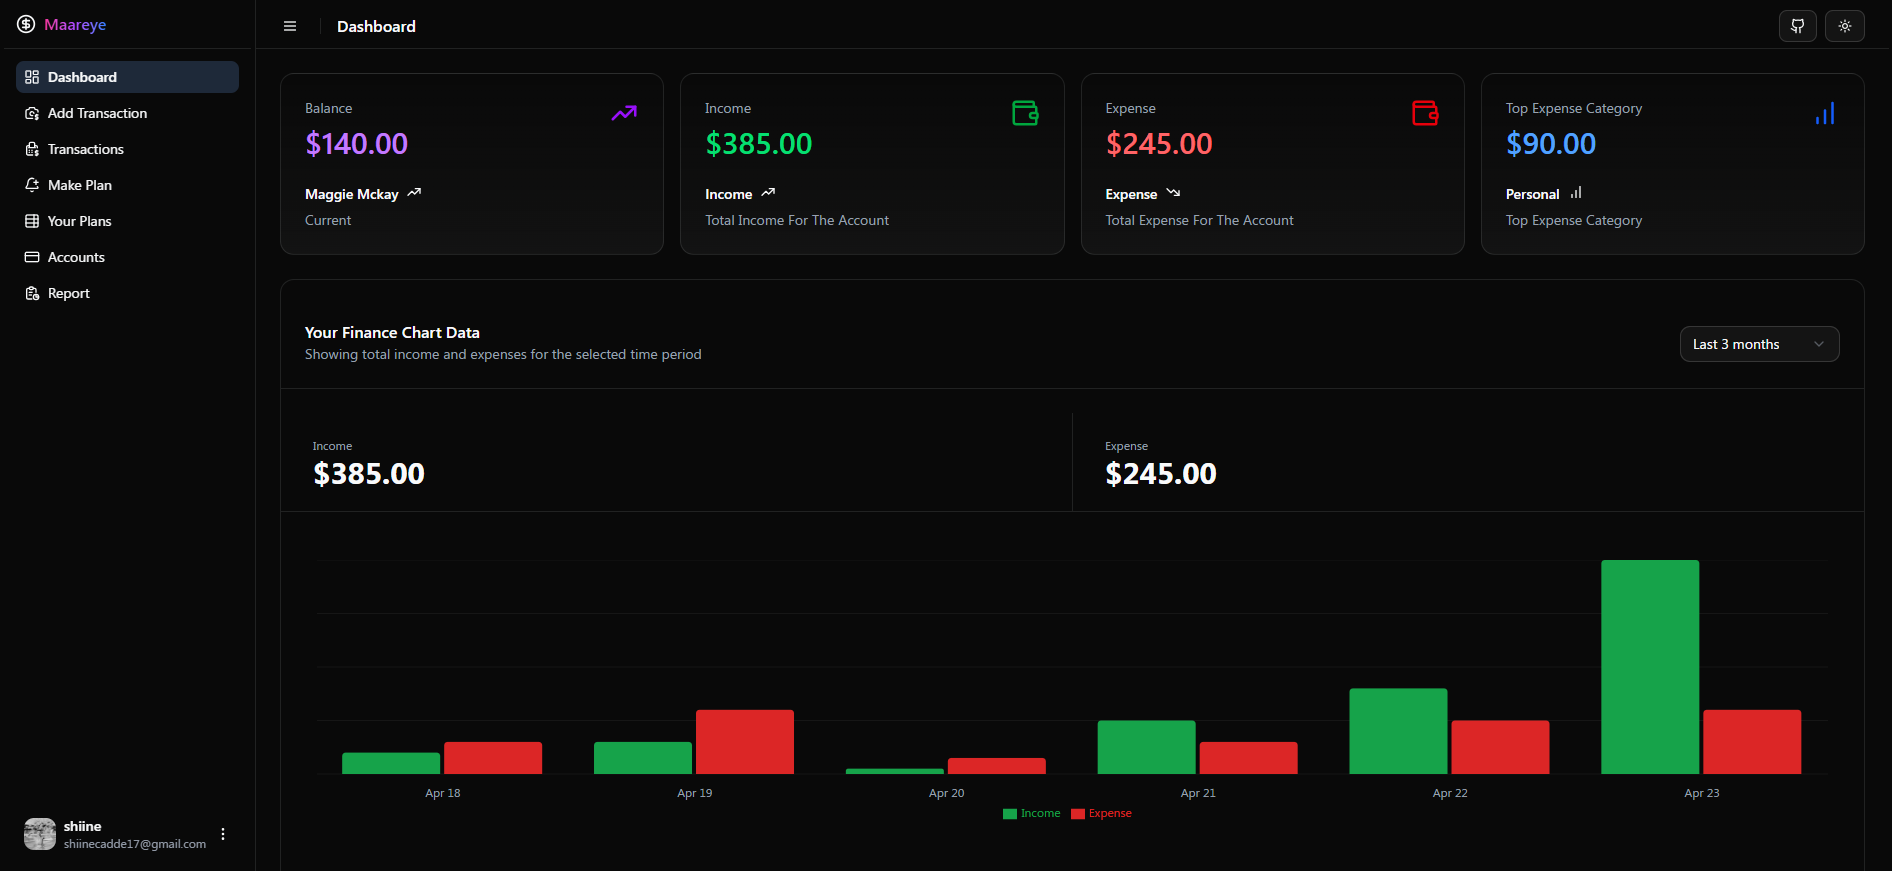
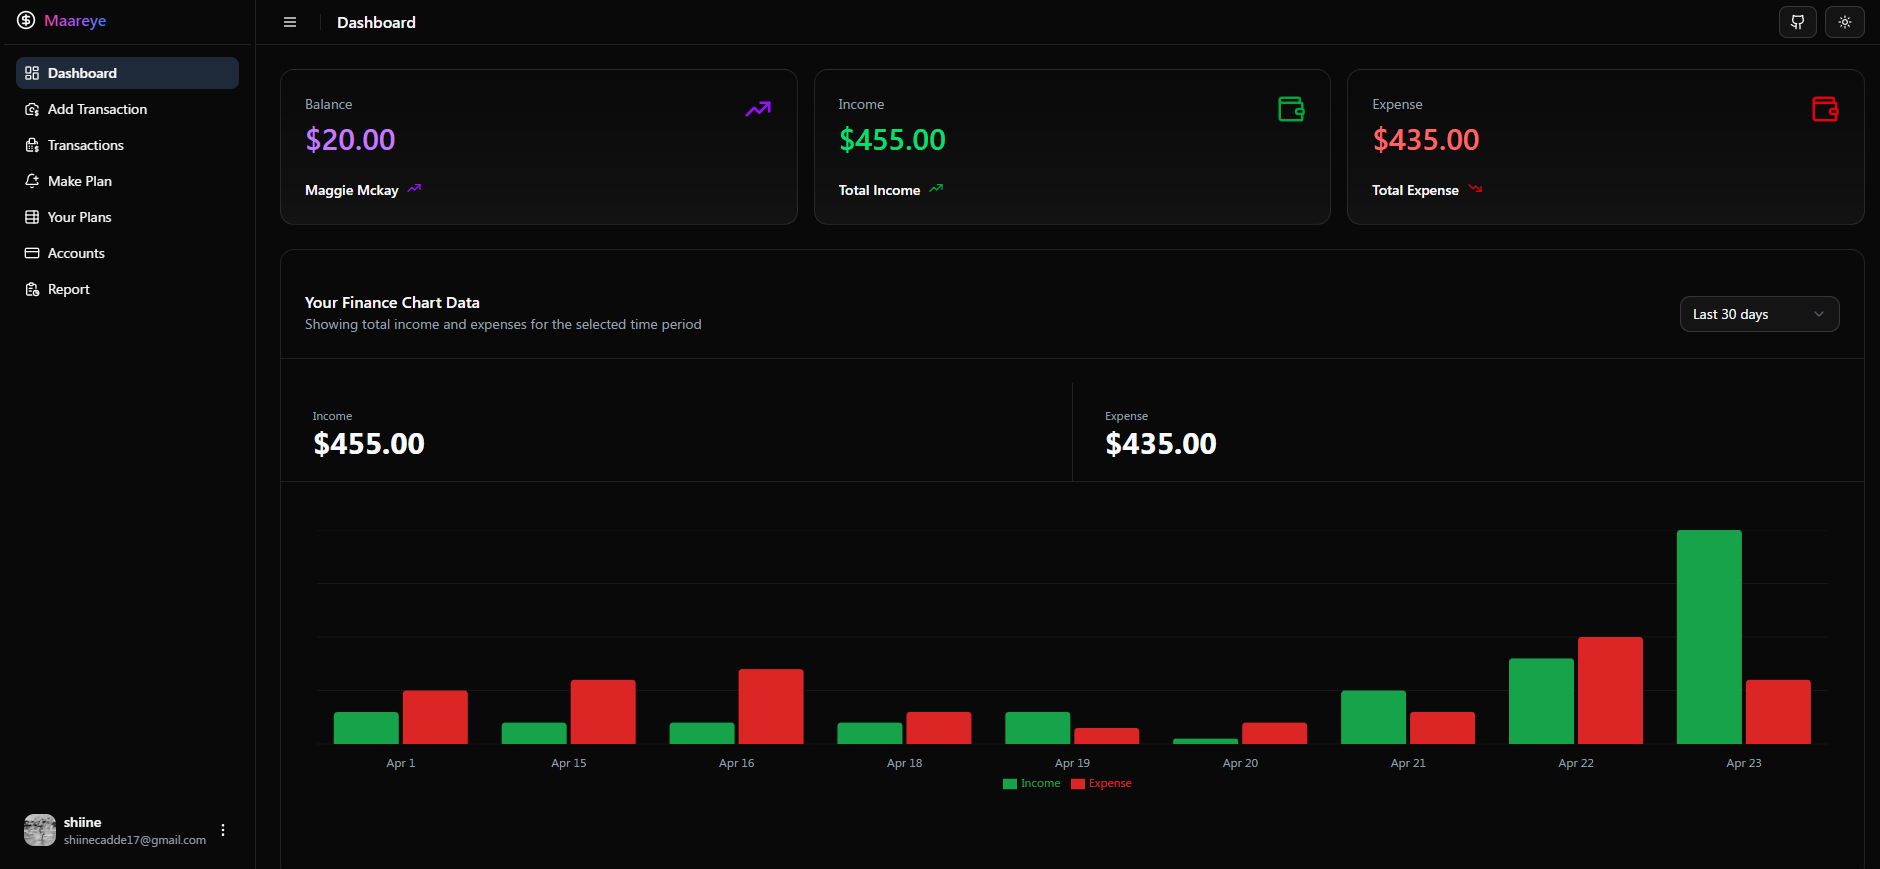
♻ refactor(overview): improve structure and performance of overview section

diff --git a/src/components/ui/section-cards.jsx b/src/components/ui/section-cards.jsx
@@ -7,53 +7,46 @@ import {
   CardHeader,
   CardTitle,
 } from "@/components/ui/card"
-import { BarChart, Wallet } from "lucide-react";
-import { generateReport } from "@/utils/transaction";
-import { useMemo } from "react";
+import { Wallet } from "lucide-react";
 
-export function SectionCards({defaultAccount, transactions}) {
+export function SectionCards({defaultAccount,totalIncome,totalExpense}) {
 
- 
 
-  const reportData = useMemo(() => {
-    if (!Array.isArray(transactions)) return null;
-    return  generateReport(transactions);
-  }, [transactions]);
-  
-
- // console.log(reportData);
+  const formatCurrency = (amount) => {
+    return new Intl.NumberFormat("en-US", {
+      style: "currency",
+      currency: "USD",
+    }).format(amount)
+  }
 
 
   return (
     <div
-      className="*:data-[slot=card]:from-primary/5 *:data-[slot=card]:to-card dark:*:data-[slot=card]:bg-card grid grid-cols-1 gap-4 px-4 *:data-[slot=card]:bg-gradient-to-t *:data-[slot=card]:shadow-xs lg:px-6 @xl/main:grid-cols-2 @5xl/main:grid-cols-4">
+      className="*:data-[slot=card]:from-primary/5 *:data-[slot=card]:to-card dark:*:data-[slot=card]:bg-card grid grid-cols-1 gap-4 px-4 *:data-[slot=card]:bg-gradient-to-t *:data-[slot=card]:shadow-xs lg:px-6 @xl/main:grid-cols-3 ">
        <Card className="@container/card">
         <CardHeader>
           <CardDescription>Balance</CardDescription>
           <CardTitle className="text-purple-400 text-2xl font-semibold tabular-num @[250px]/card:text-3xl">
-           ${defaultAccount?.balance.toLocaleString("en-Us",
-            { minimumFractionDigits:2,},{ maximumFractionDigits:2,})}
+           {formatCurrency(defaultAccount?.balance)}
           </CardTitle>
           <CardAction>
             <div variant="outline" className={"text-purple-600"}>
-              <IconTrendingUp size={30} />
-              
+              <IconTrendingUp size={30}  />
             </div>
           </CardAction>
         </CardHeader>
         <CardFooter className="flex-col items-start gap-1.5 text-sm">
           <div className="line-clamp-1 flex gap-2 font-medium capitalize">
-             { defaultAccount ? defaultAccount?.name : "No Account"}<IconTrendingUp className="size-4" />
+             { defaultAccount ? defaultAccount?.name : "No Account"}
+             <IconTrendingUp className="size-4 text-purple-600"  />
           </div>
-          <div className="text-muted-foreground capitalize">{defaultAccount ? defaultAccount?.type : "no account"}</div>
         </CardFooter>
       </Card>
       <Card className="@container/card">
         <CardHeader>
           <CardDescription>Income</CardDescription>
           <CardTitle className="text-green-400 text-2xl font-semibold tabular-nums @[250px]/card:text-3xl">
-           ${reportData?.income?.toLocaleString("en-Us",
-            { minimumFractionDigits:2,},{ maximumFractionDigits:2,})}
+           {formatCurrency(totalIncome)}
           </CardTitle>
           <CardAction>
             <div variant="outline" className={"text-green-600"}>
@@ -63,10 +56,7 @@ export function SectionCards({defaultAccount, transactions}) {
         </CardHeader>
         <CardFooter className="flex-col items-start gap-1.5 text-sm">
           <div className="line-clamp-1 flex gap-2 font-medium">
-            Income <IconTrendingUp className="size-4" />
-          </div>
-          <div className="text-muted-foreground capitalize">
-            Total Income for The Account
+            Total Income <IconTrendingUp className="size-4 text-green-600" />
           </div>
         </CardFooter>
       </Card>
@@ -74,8 +64,7 @@ export function SectionCards({defaultAccount, transactions}) {
         <CardHeader>
           <CardDescription>Expense</CardDescription>
           <CardTitle className="text-red-400 text-2xl font-semibold tabular-nums @[250px]/card:text-3xl">
-            ${reportData?.expense?.toLocaleString("en-Us",
-            { minimumFractionDigits:2,},{ maximumFractionDigits:2,})}
+            {formatCurrency(totalExpense)}
           </CardTitle>
           <CardAction>
             <div variant="outline" className={"text-red-600"}>
@@ -85,33 +74,8 @@ export function SectionCards({defaultAccount, transactions}) {
         </CardHeader>
         <CardFooter className="flex-col items-start gap-1.5 text-sm">
           <div className="line-clamp-1 flex gap-2 font-medium">
-            Expense <IconTrendingDown className="size-4" />
+          Total Expense <IconTrendingDown className="size-4 text-red-600" />
           </div>
-          <div className="text-muted-foreground capitalize">
-           Total Expense for the Account
-          </div>
-        </CardFooter>
-      </Card>
-     
-      <Card className="@container/card">
-        <CardHeader>
-          <CardDescription>Top Expense Category</CardDescription>
-          <CardTitle className="text-blue-400 text-2xl font-semibold tabular-num @[250px]/card:text-3xl">
-            ${reportData?.topCategory?.amount.toLocaleString("en-Us",
-            { minimumFractionDigits:2,},{ maximumFractionDigits:2,}) || "0.00"}
-          </CardTitle>
-          <CardAction>
-            <div variant="outline" className={"text-blue-600"}>
-            <BarChart size={30} />
-             
-            </div>
-          </CardAction>
-        </CardHeader>
-        <CardFooter className="flex-col items-start gap-1.5 text-sm">
-          <div className="line-clamp-1 flex gap-2 font-medium capitalize">
-            {reportData?.topCategory?.category || "No Expense" } <BarChart className="size-4" />
-          </div>
-          <div className="text-muted-foreground capitalize">Top Expense Category </div>
         </CardFooter>
       </Card>
     </div>

diff --git a/src/pages/Dashboard/Overview.jsx b/src/pages/Dashboard/Overview.jsx
@@ -1,14 +1,18 @@
-import React from 'react'
+import * as React from "react"
 import { SectionCards } from '@/components/ui/section-cards'
 import { BarChar } from '@/components/ui/BarChart'
 import { useAuth } from '@/context/AuthContext'
 import { useFetch } from '@/hooks/useFetch'
 import { getDefaultAccountByUserId } from '@/utils/account'
-import { getTransactionsForAccount } from '@/utils/transaction'
+import { getSummaryData, getTransactionsForAccount } from '@/utils/transaction'
 import { Spinner } from '@/components/ui/spinner'
 import RecentTransactions from './RecentTransactions'
 const Overview = () => {
-
+  const [chartData, setChartData ]= React.useState([]);
+  const [chartLoading, setChartLoading] =React.useState(true);
+  const [chartError, setChartError] = React.useState(null);
+  const [totalIncome, setTotalIncome] = React.useState(0);
+  const [totalExpense, setTotalExpense] = React.useState(0);
   const {user} = useAuth();
   const {
     data: defaultAccount,
@@ -26,16 +30,32 @@ const Overview = () => {
 
  // console.log(accountTransactions)
 
- if (defaultAccountError || transactionError) {
-  return (
-        <div className="flex items-center justify-center h-screen gap-3">
-          <div className="loader text-2xl text-red-500 ">
-            Error fetching data pleas try again
-          </div>
-        </div>
-      );
- }
-  if (defaultAccountLoading || transactionLoading) {
+ React.useEffect(() => {
+   if (!Array.isArray(accountTransactions)) return;
+ 
+   const fetchChart = async () => {
+     try {
+       setChartLoading(true);
+       const {chartData:result,totalIncome,totalExpense} = await getSummaryData(accountTransactions);
+//console.log(totalIncome)
+       console.log(chartData)
+       setChartData(result);
+       setTotalIncome(totalIncome);
+       setTotalExpense(totalExpense);
+     } catch (err) {
+       console.error("Error generating chart:", err);
+       setChartError(err);
+     } finally {
+       setChartLoading(false);
+     }
+   };
+ 
+   fetchChart();
+ }, [accountTransactions]);
+
+
+
+  if (defaultAccountLoading || transactionLoading ) {
    return (
          <div className="flex items-center justify-center h-screen gap-3">
            <Spinner className="h-6 w-6 animate-spin- text-purple-500" />
@@ -46,14 +66,24 @@ const Overview = () => {
          </div>
        );
   }
+
+  if (defaultAccountError || transactionError ) {
+    return (
+          <div className="flex items-center justify-center h-screen gap-3">
+            <div className="loader text-2xl text-red-500 ">
+              Error fetching data pleas try again
+            </div>
+          </div>
+        );
+   }
   
   return (
      <div className="flex flex-1 flex-col">
           <div className="@container/main flex flex-1 flex-col gap-2">
             <div className="flex flex-col gap-4 py-4 md:gap-6 md:py-6">
-              <SectionCards  defaultAccount={defaultAccount} transactions={accountTransactions}/>
+              <SectionCards  defaultAccount={defaultAccount} totalIncome={totalIncome} totalExpense={totalExpense}/>
               <div className="px-4 lg:px-6">
-                <BarChar  transactions={accountTransactions} />
+                <BarChar  chartData={chartData} chartLoading={chartLoading} />
               </div>
               <div>
                 <RecentTransactions />

diff --git a/src/components/ui/BarChart.jsx b/src/components/ui/BarChart.jsx
@@ -1,4 +1,3 @@
-"use client"
 
 import * as React from "react"
 import { Bar, BarChart, CartesianGrid, Legend, XAxis } from "recharts"
@@ -16,8 +15,9 @@ import {
   ChartTooltipContent,
 } from "@/components/ui/chart"
 import { Select, SelectContent, SelectItem, SelectTrigger, SelectValue } from "./select"
-import { getTransactionSummary } from "@/utils/transaction"
 import { Spinner } from "./spinner"
+// import { getTransactionSummary } from "@/utils/transaction"
+// import { Spinner } from "./spinner"
 
 
 const chartConfig = {
@@ -34,33 +34,9 @@ const chartConfig = {
   },
 } 
 
-export function BarChar({transactions}) {
+export function BarChar({chartData,chartLoading}) {
   
-    const [timeRange, setTimeRange] = React.useState("7d");
-
-    const [chartData, setChartData ]= React.useState([]);
-const [chartLoading, setChartLoading] =React.useState(true);
-const [chartError, setChartError] = React.useState(null);
-
-React.useEffect(() => {
-  if (!Array.isArray(transactions)) return;
-
-  const fetchChart = async () => {
-    try {
-      setChartLoading(true);
-      const result = await getTransactionSummary(transactions);
-      setChartData(result);
-    } catch (err) {
-      console.error("Error generating chart:", err);
-      setChartError(err);
-    } finally {
-      setChartLoading(false);
-    }
-  };
-
-  fetchChart();
-}, [transactions]);
-
+    const [timeRange, setTimeRange] = React.useState("30d");
   
     const filteredData = React.useMemo(() => {
       return chartData.filter((item) => {

diff --git a/src/utils/transaction.js b/src/utils/transaction.js
@@ -302,7 +302,16 @@ export const generateReport = (transactions = []) => {
 
 
 //summary of transactions by date
-export const getTransactionSummary = async (transactions) => {
+export const getSummaryData = async (transactions = []) => {
+
+  const totalIncome = transactions
+  .filter((t) => t.type === "income")
+  .reduce((acc, t) => acc + t.amount, 0);
+const totalExpense = transactions
+  .filter((t) => t.type === "expense")
+  .reduce((acc, t) => acc + t.amount, 0);
+
+
   // Group by date
   const summaryMap = {};
 
@@ -321,9 +330,13 @@ export const getTransactionSummary = async (transactions) => {
   });
 
   // Filter out days where both income and expense are zero
-  const summaryArray = Object.values(summaryMap)
+  const chartData = Object.values(summaryMap)
     .filter((day) => day.income !== 0 || day.expense !== 0)
     .sort((a, b) => new Date(a.date) - new Date(b.date));
 
-  return summaryArray;
+  return {
+    chartData,  
+    totalIncome,
+    totalExpense
+  };
 };
